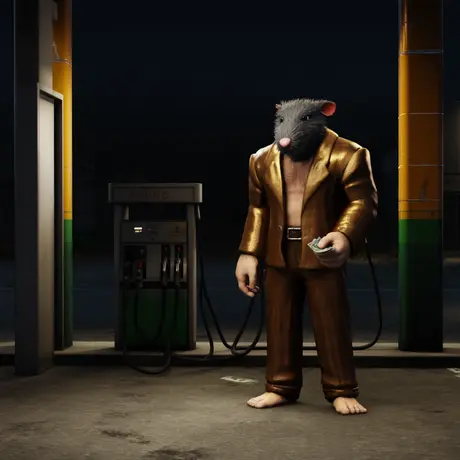
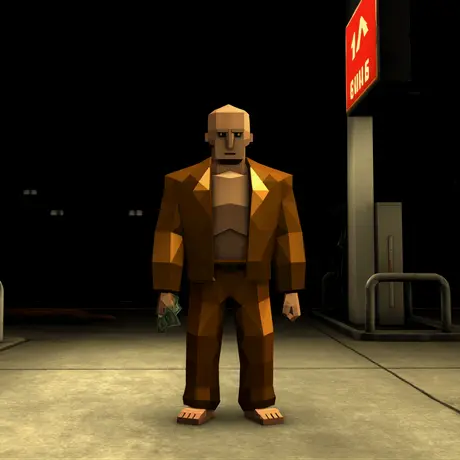
Twenty Five: the man is Wojak now, same suit, same note, eight new sightings

diff --git a/index.html b/index.html
@@ -134,7 +134,7 @@ h1 span{display:inline-block;opacity:0;transform:translateY(24px);animation:rise
 </nav>
 
 <header class="hero">
-  <div class="shot"><img src="assets/hero.webp" alt="A man in a gold suit with the head of a rat, alone in an empty penthouse, holding one banknote" /></div>
+  <div class="shot"><img src="assets/hero.webp" alt="Wojak in a gold suit, alone in an empty penthouse, holding one banknote" /></div>
   <div class="veil"></div><div class="foot"></div>
   <div class="wrap">
     <div class="eyebrow">One swap &#183; four pools &#183; <s>no way back</s></div>
@@ -256,13 +256,13 @@ h1 span{display:inline-block;opacity:0;transform:translateY(24px);animation:rise
       lbn = document.getElementById('lbn'), gi = 0;
   grid.innerHTML = SEEN.map(function(m, i){
     return '<button data-i="' + i + '" aria-label="' + m[0] + '">' +
-           '<img src="assets/t' + (i + 1) + '.webp" alt="A rat headed man in a gold suit ' + m[1] + '" loading="lazy" />' +
+           '<img src="assets/t' + (i + 1) + '.webp" alt="Wojak in a gold suit ' + m[1] + '" loading="lazy" />' +
            '<b>' + m[0] + '</b></button>';
   }).join('');
   function show(k){
     gi = (k + SEEN.length) % SEEN.length;
     lbimg.src = 'assets/m' + (gi + 1) + '.webp';
-    lbimg.alt = 'A rat headed man in a gold suit ' + SEEN[gi][1];
+    lbimg.alt = 'Wojak in a gold suit ' + SEEN[gi][1];
     lbcap.textContent = SEEN[gi][0];
     lbn.textContent = (gi + 1) + ' / ' + SEEN.length;
     lb.classList.add('on');
